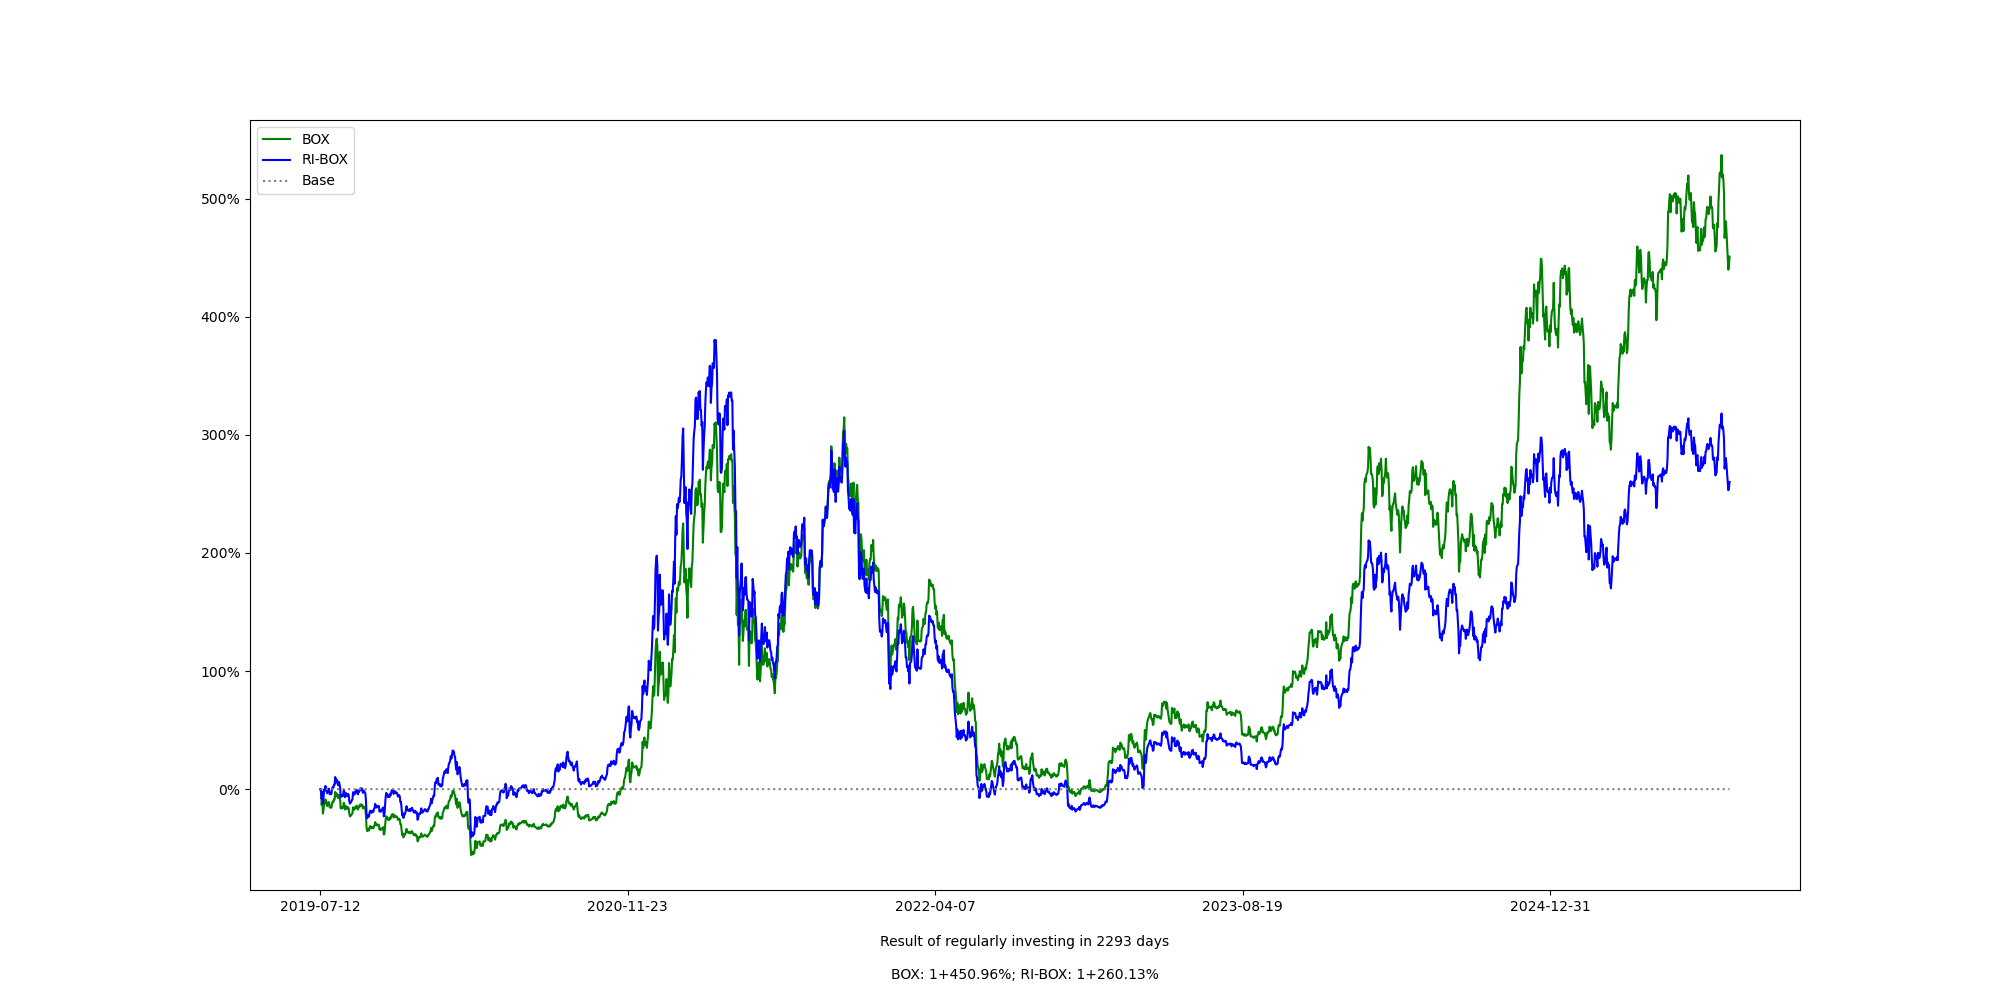
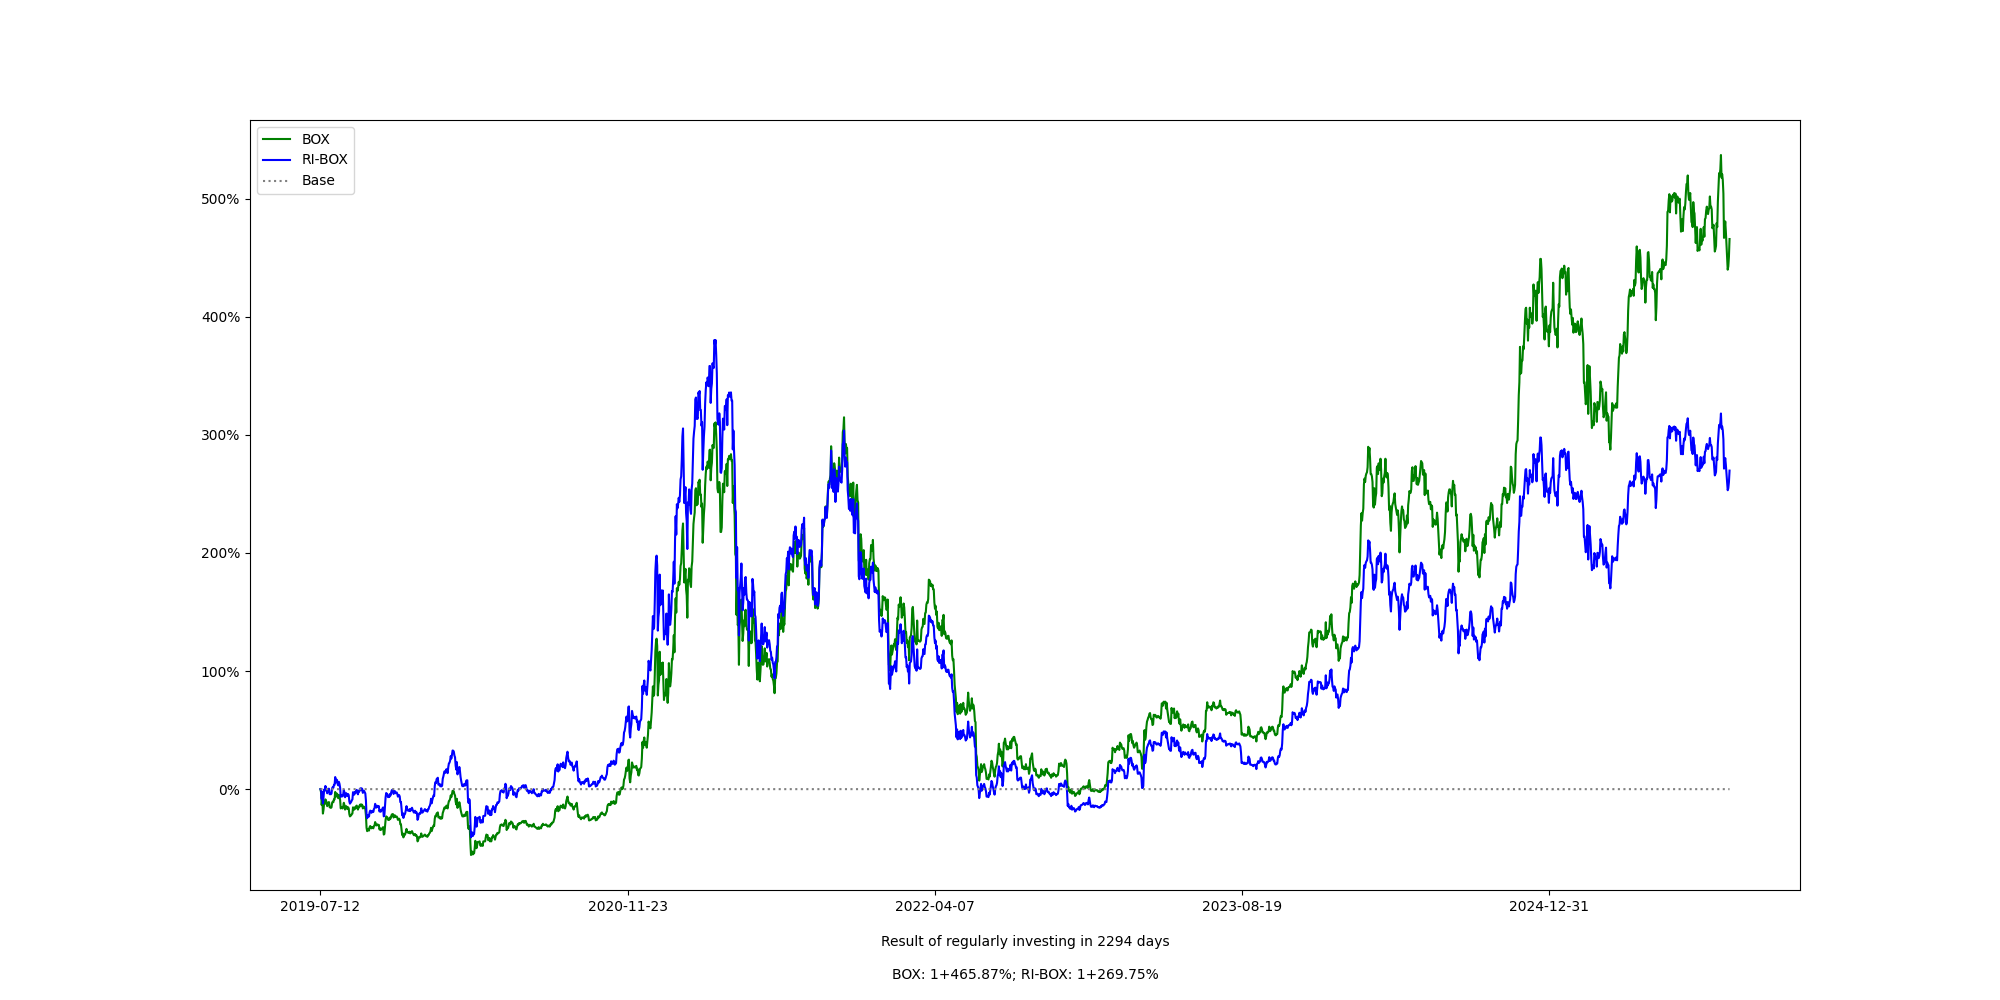
box historical price auto-updated

diff --git a/data/boxhistoricalprice.py b/data/boxhistoricalprice.py
@@ -59,11 +59,11 @@ sol_price = '${:,.2f}'.format(float(SOLresponse['data']['close']))
 box_price = '${:,.2f}'.format((float(sub(r'[^\d.]', '', btc_price)) * 1 + float(sub(r'[^\d.]', '', eos_price)) * 0 + float(sub(r'[^\d.]', '', xin_price)) * 8 + float(sub(r'[^\d.]', '', eth_price)) * 1 + float(sub(r'[^\d.]', '', dot_price)) * 0 + float(sub(r'[^\d.]', '', mob_price)) * 0 + float(sub(r'[^\d.]', '', uni_price)) * 100 + float(sub(r'[^\d.]', '', sol_price)) * 5)/10000) 
 
 # f = open("box_price_history.txt", "a")
-f = open("/root/regular-investing-in-box/data/box_price_history.txt", "a")
+f = open("/home/xiaolaidev/regular-investing-in-box/data/box_price_history.txt", "a")
 f.write(todaysdate + '\t' + btc_price + '\t' + eos_price + '\t' + xin_price + '\t' + eth_price + '\t' + dot_price + '\t' + mob_price + '\t' + uni_price + '\t' + sol_price + '\t' + box_price +'\r')
 f.close()
 
 # on MacOSX, in terminal:
 # > crontab -e
-# 0 8 * * * cd /root/regular-investing-in-box/data && /root/anaconda3/bin/python boxhistoricalprice.py && cd /root/regular-investing-in-box && git pull && git add . && git commit -a -m "box historical price auto-updated" && git push -u origin master 
+# 0 8 * * * cd /home/xiaolaidev/regular-investing-in-box/data && /root/anaconda3/bin/python boxhistoricalprice.py && cd /home/xiaolaidev/regular-investing-in-box && git pull && git add . && git commit -a -m "box historical price auto-updated" && git push -u origin master 
 # > about ctron time setting, see: https://crontab.guru/#59_23_*_*_*

diff --git a/data/visualization.py b/data/visualization.py
@@ -5,7 +5,7 @@ from re import sub
 
 # "https://raw.githubusercontent.com/xiaolai/regular-investing-in-box/master/data/box_price_history.txt",
 series = pd.read_csv(
-    "/root/regular-investing-in-box/data/box_price_history.txt",
+    "/home/xiaolaidev/regular-investing-in-box/data/box_price_history.txt",
     sep="\t"
 )
 
